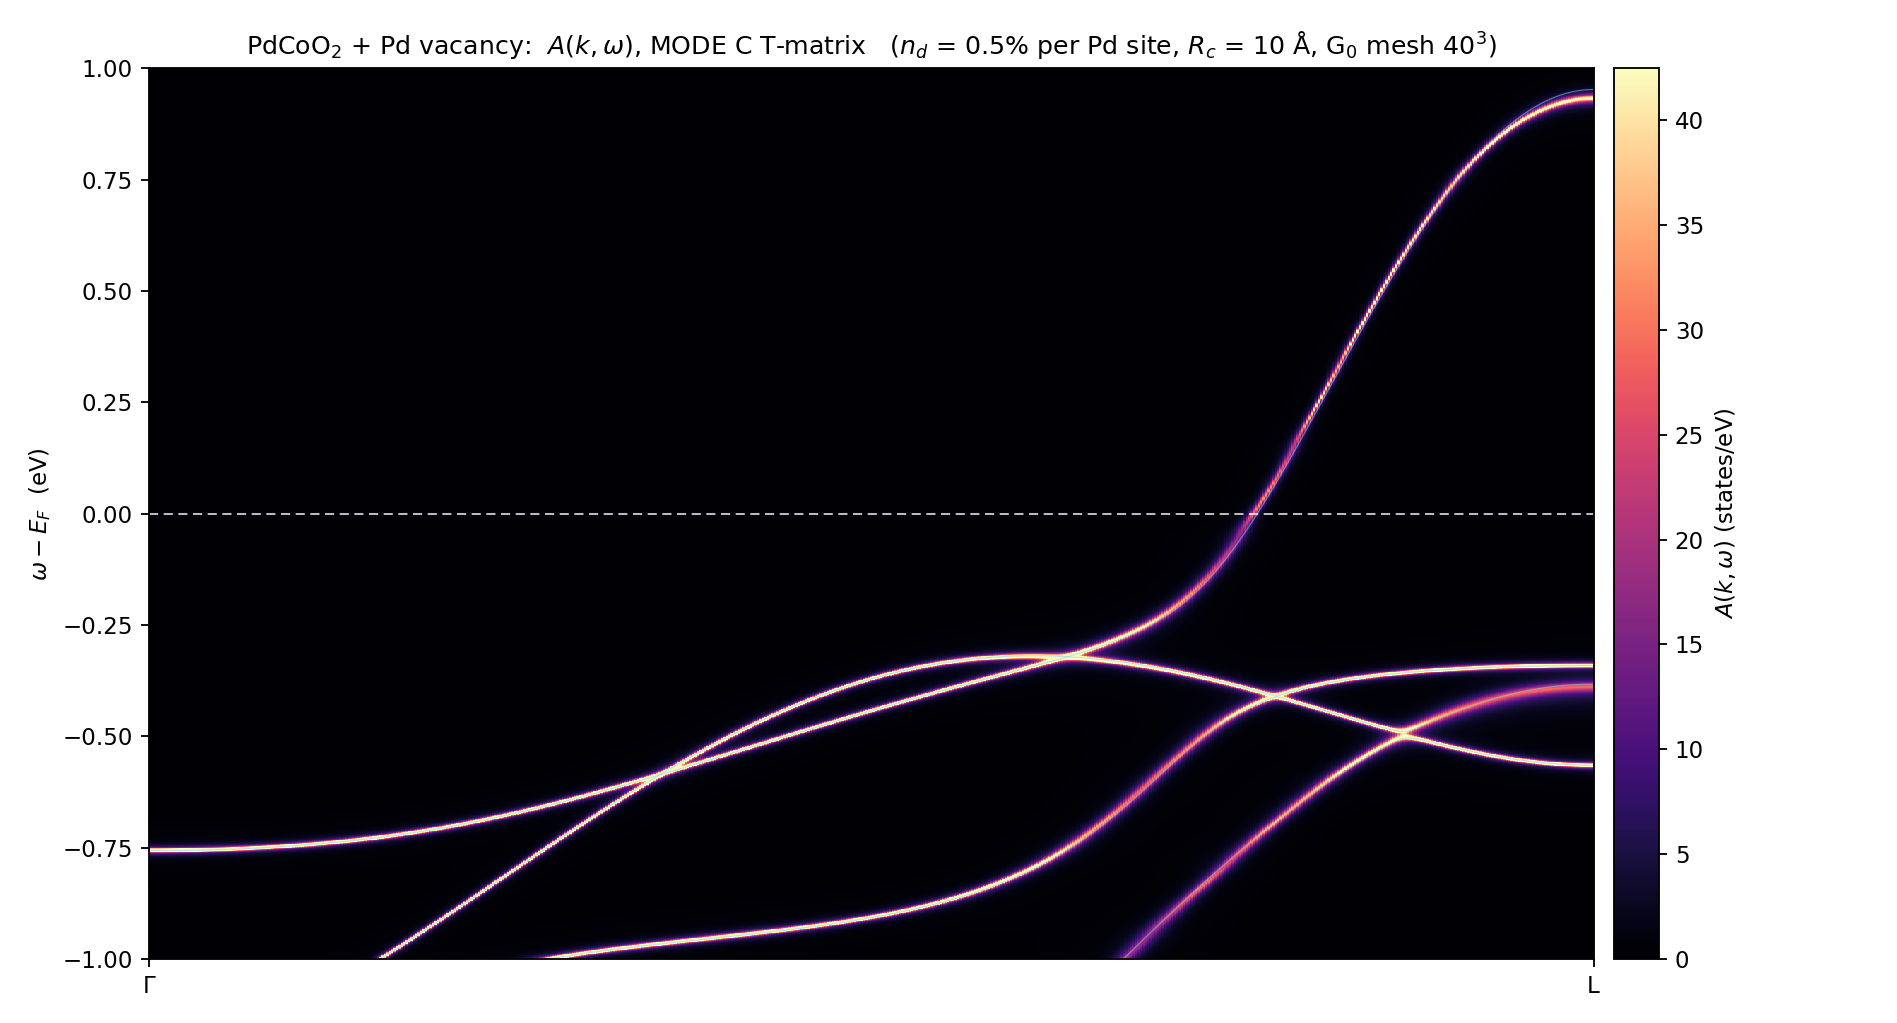
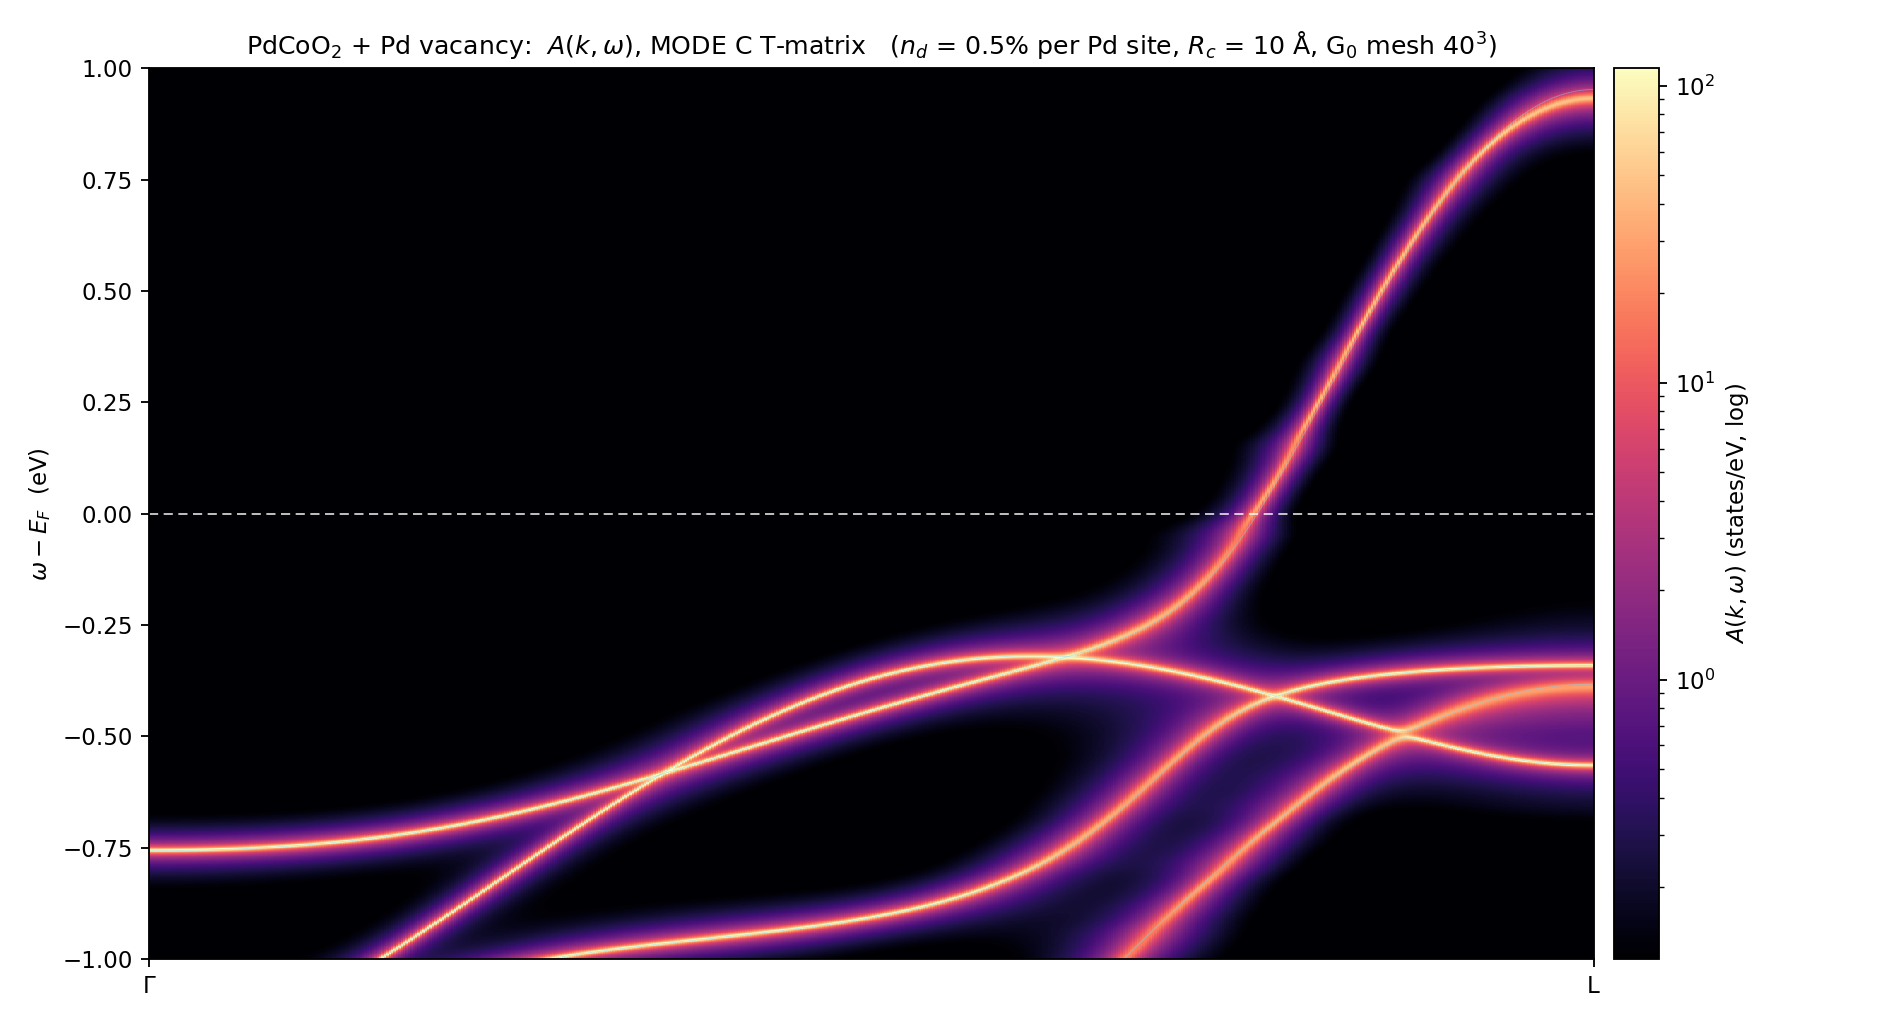
pdvac-coset: HD zoom with logarithmic colorbar
Three decades of dynamic range: the Lorentzian wings around the E_F crossing
are now fully visible -- the lineshape itself, not just peak positions,
becomes readable.  Main script switched to LogNorm for all future runs.

diff --git a/docs/pages/pdvac-coset.html b/docs/pages/pdvac-coset.html
@@ -79,8 +79,8 @@ $$\text{常数}=216.00000000=N_k,\qquad \text{rel-std}=2.9\times10^{-13},\qquad
 <ol><li><strong>陡峭的 Pd 传导带在穿越 $E_F$ 处变暗、变宽</strong>:$E_F\pm0.15$ eV 窗口内谱峰 从 ~40 掉到 ~15 states/eV($A_{\rm peak}\propto1/\Gamma$,共振区 $\Gamma$ 增强、 峰高塌落),离开窗口同一条带立刻恢复锐利——$T(\omega)$ 共振(§6a 的 ×5)的 能量选择性在一条带上一眼读出;</li><li><strong>$\Gamma(E_F)$ = 中位 17.0 meV</strong>(16.2–17.5,4 个穿越态;2.5 meV $\omega$ 网格 + $40^3$ $G_0$,比全路径跑的分辨率更高)→ $\tau\approx39$ fs @ 0.5% 空位;</li><li><strong>散射率沿费米面各向异性 ~40%</strong>:此段 17 meV vs 全路径其它穿越点 ~24 meV—— 不同 $k$ 处的费米面态与缺陷共振的耦合强度不同。这是输运的实质输入: 各向异性 $\tau(k)$ 意味着 SERTA 与完整解(含顶点修正/IBTE)会出现可测差别。</li></ol>
 <h3>7e. 高分辨版(601 k × 2001 $\omega$,$\eta=2$ meV)</h3>
 <p><img src="../assets/pdcoo2_spec_GLzoomHD.png" alt="PdCoO2 Gamma-L HD zoom" style="max-width:100%;height:auto;display:block;margin:1.2rem auto;border:1px solid #d0d7de;border-radius:6px"></p>
-<p>把 7d 的分辨率全面加密(k 点 ×3、$\omega$ 步长 1 meV、显示 $\eta$ 降到 2 meV, 使本征线宽完全主导)后:</p>
-<ul><li><strong>共振窗口清晰成型</strong>:$\omega\in(-0.1,+0.2)$ eV 内谱峰黯淡、窗口外恢复为 发丝级锐线——能量选择性成为图上无可争辩的特征;</li><li><strong>线宽读数收敛</strong>:HD 的 12 个穿越态给 $\Gamma(E_F)$ 中位 <strong>17.01 meV</strong>, 与低分辨版(4 个态,$\eta=5$ meV)的 16.99 逐位一致——对 k/ω 分辨率与 $\eta$ 均已收敛,<strong>这是可引用的数</strong>;</li><li>$-0.3\ldots-0.5$ eV 的避免交叉在 1 meV 网格下完全分辨。</li></ul>
+<p>把 7d 的分辨率全面加密(k 点 ×3、$\omega$ 步长 1 meV、显示 $\eta$ 降到 2 meV, 使本征线宽完全主导;<strong>色标为对数</strong>,覆盖三个量级)后:</p>
+<ul><li><strong>共振窗口清晰成型</strong>:$\omega\in(-0.1,+0.2)$ eV 内谱峰黯淡、窗口外恢复为 发丝级锐线——能量选择性成为图上无可争辩的特征;</li><li><strong>线宽读数收敛</strong>:HD 的 12 个穿越态给 $\Gamma(E_F)$ 中位 <strong>17.01 meV</strong>, 与低分辨版(4 个态,$\eta=5$ meV)的 16.99 逐位一致——对 k/ω 分辨率与 $\eta$ 均已收敛,<strong>这是可引用的数</strong>;</li><li>$-0.3\ldots-0.5$ eV 的避免交叉在 1 meV 网格下完全分辨;</li><li>对数色标下<strong>共振窗口的洛伦兹尾翼完整可见</strong>(穿越点周围的弥散晕)—— 线形本身(不只是峰位)成为可读的对象。</li></ul>
 <p>(601×2001 的全 $\Sigma_W/n_d$ 在盘,换缺陷浓度重出图为秒级。ω 并行 6 worker,39 分钟。)</p>
 <h3>7f. 成本</h3>
 <p>门 0 + $32^3$ $G_0$ + 434 $\omega$ × 301 $k$ 全程 <strong>305 s</strong>(6 worker × 8 线程的 $\omega$ 级扇出;首版三算符 einsum 实现需 ~45 h,唯一 $\Delta R$-GEMM 重构 + 并行合计 ~530×)。 注意事项:共振幅度带 ~10% 的有限盒不确定度(§6a 的 2×2×2 盒角效应),压低须 3×3×3。</p>

diff --git a/content/pdvac-coset.md b/content/pdvac-coset.md
@@ -210,14 +210,16 @@ $\Sigma_W(k,\omega)$ 本身都在路径 k 上直接求值,无需任何网格。
 ![PdCoO2 Gamma-L HD zoom](../assets/pdcoo2_spec_GLzoomHD.png)
 
 把 7d 的分辨率全面加密(k 点 ×3、$\omega$ 步长 1 meV、显示 $\eta$ 降到 2 meV,
-使本征线宽完全主导)后:
+使本征线宽完全主导;**色标为对数**,覆盖三个量级)后:
 
 - **共振窗口清晰成型**:$\omega\in(-0.1,+0.2)$ eV 内谱峰黯淡、窗口外恢复为
   发丝级锐线——能量选择性成为图上无可争辩的特征;
 - **线宽读数收敛**:HD 的 12 个穿越态给 $\Gamma(E_F)$ 中位 **17.01 meV**,
   与低分辨版(4 个态,$\eta=5$ meV)的 16.99 逐位一致——对 k/ω 分辨率与
   $\eta$ 均已收敛,**这是可引用的数**;
-- $-0.3\ldots-0.5$ eV 的避免交叉在 1 meV 网格下完全分辨。
+- $-0.3\ldots-0.5$ eV 的避免交叉在 1 meV 网格下完全分辨;
+- 对数色标下**共振窗口的洛伦兹尾翼完整可见**(穿越点周围的弥散晕)——
+  线形本身(不只是峰位)成为可读的对象。
 
 (601×2001 的全 $\Sigma_W/n_d$ 在盘,换缺陷浓度重出图为秒级。ω 并行 6 worker,39 分钟。)
 
